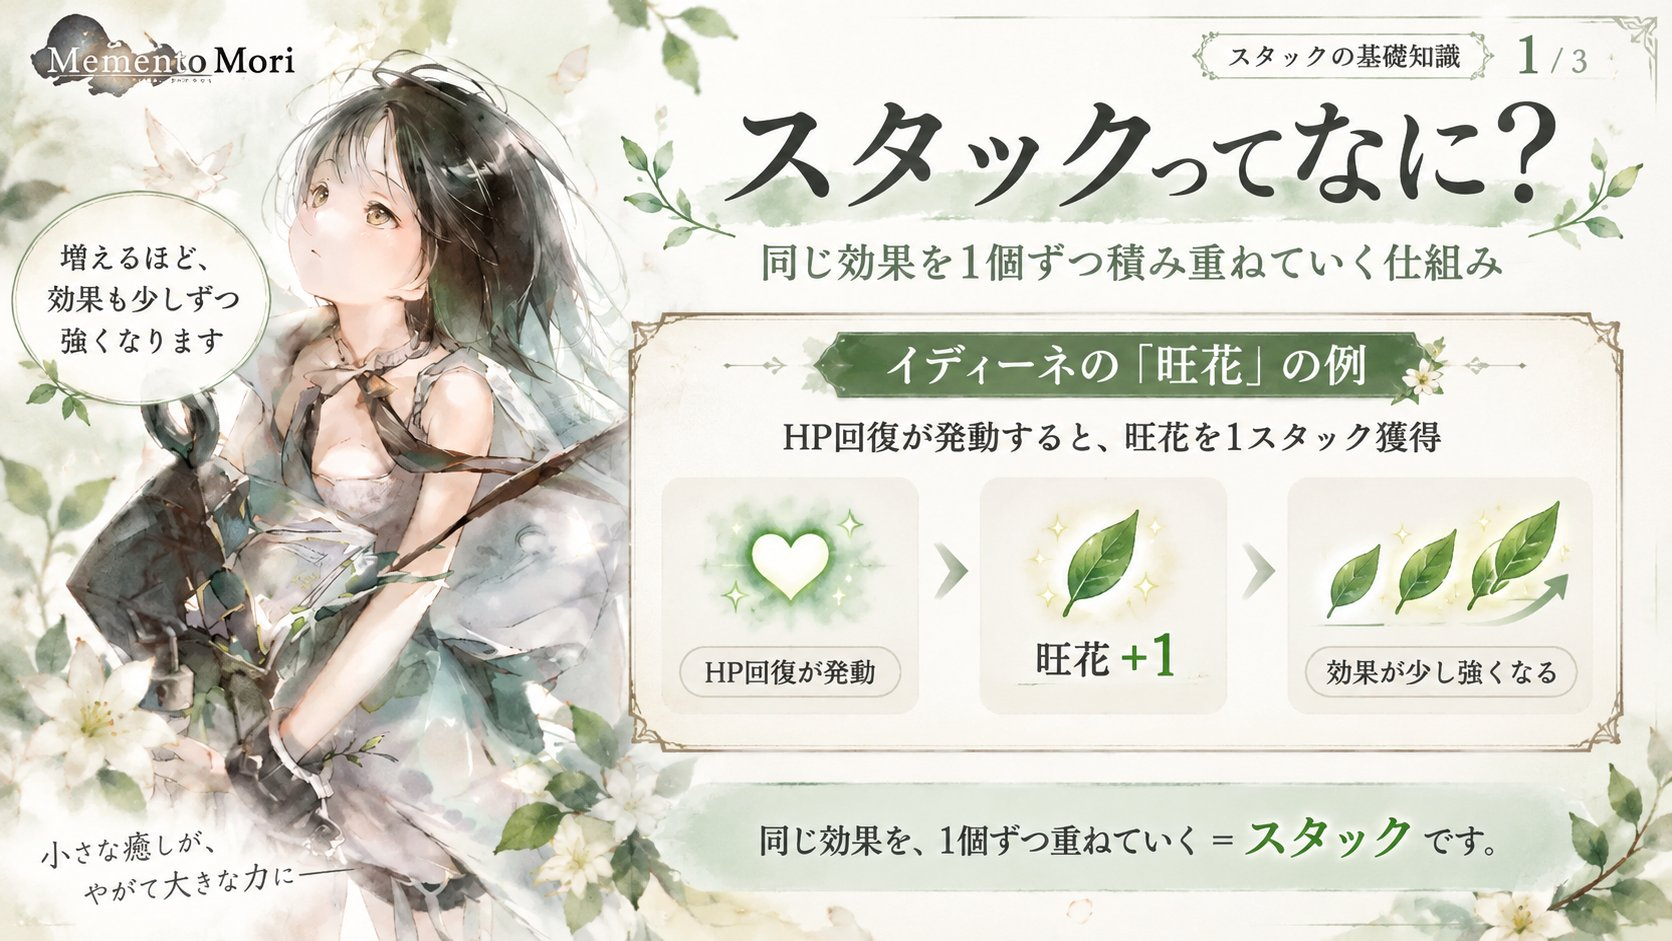
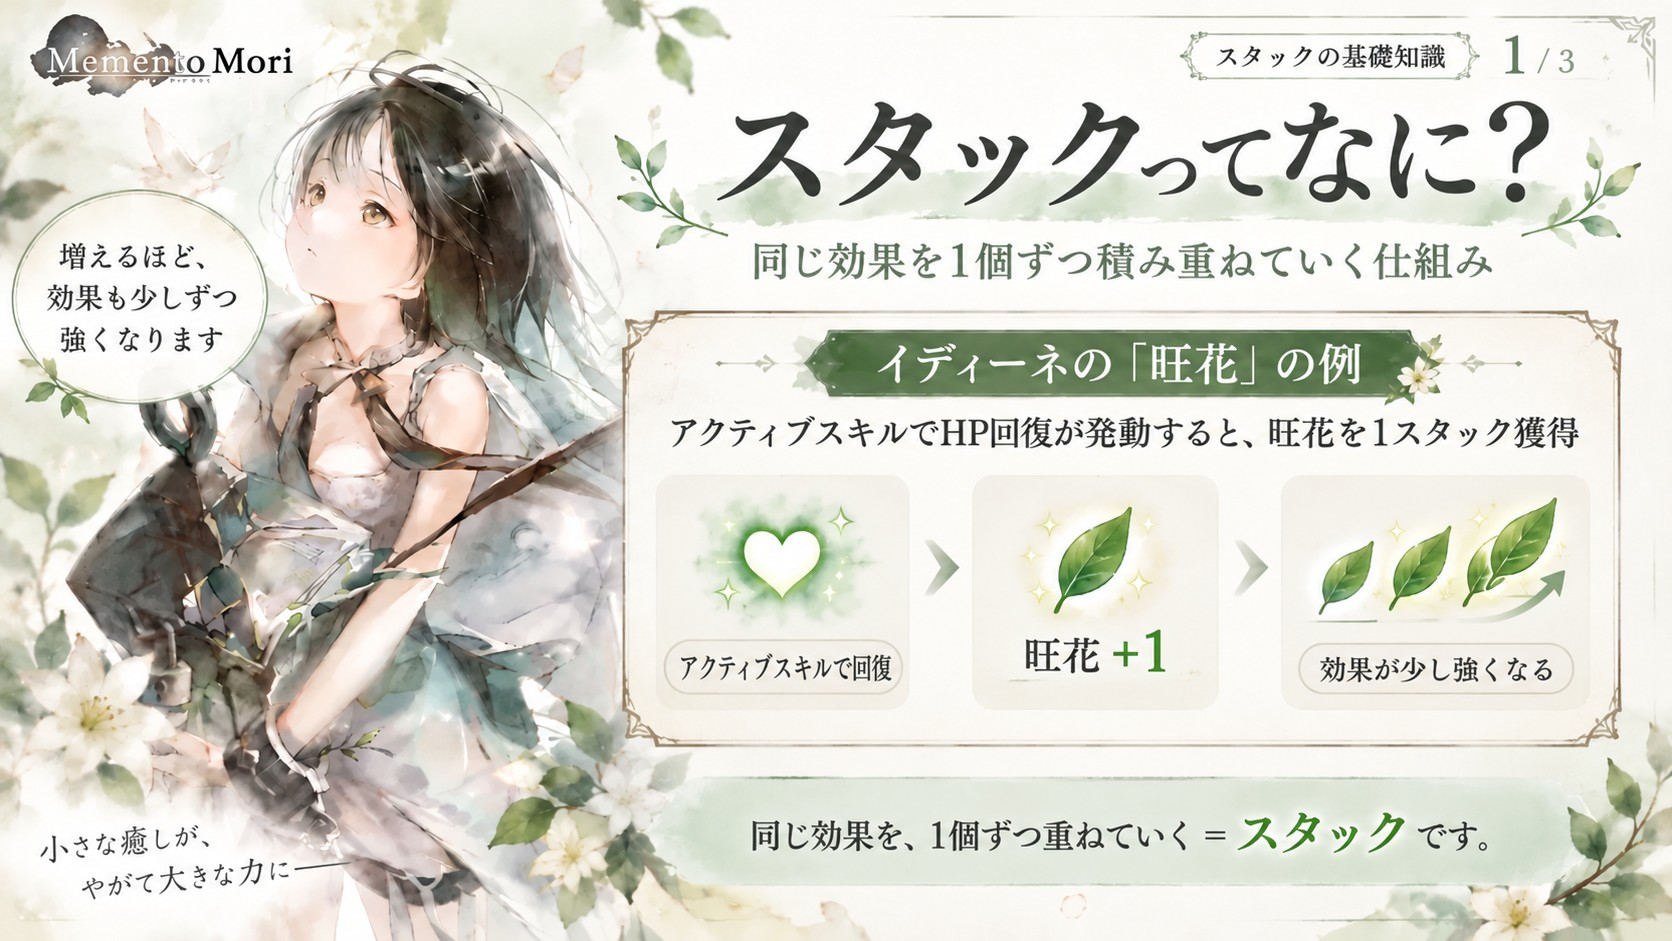
fix(status-guide): スタック解説の図解スライド2枚を差し替え、旺花の発動条件と対象を正しい表記にする

diff --git a/pages/status/stack.html b/pages/status/stack.html
@@ -92,13 +92,13 @@
               <figure class="guide-slide is-active" data-duration="3000" aria-roledescription="slide" aria-label="1 / 3">
                 <picture>
                   <source type="image/webp" srcset="../../assets/status/stack-slide-1-intro-960.webp 960w, ../../assets/status/stack-slide-1-intro.webp 1672w" sizes="(max-width: 960px) 100vw, 960px">
-                  <img src="../../assets/status/stack-slide-1-intro.jpg" width="1672" height="941" alt="スタックってなに？同じ効果を1個ずつ積み重ねていく仕組み。イディーネの旺花の例：HP回復が発動すると旺花が1つ増え、効果が少し強くなる" decoding="async">
+                  <img src="../../assets/status/stack-slide-1-intro.jpg" width="1672" height="941" alt="スタックってなに？同じ効果を1個ずつ積み重ねていく仕組み。イディーネの旺花の例：アクティブスキルでHP回復が発動すると旺花が1つ増え、効果が少し強くなる" decoding="async">
                 </picture>
               </figure>
               <figure class="guide-slide" data-duration="4000" aria-roledescription="slide" aria-label="2 / 3">
                 <picture>
                   <source type="image/webp" srcset="../../assets/status/stack-slide-2-targets-960.webp 960w, ../../assets/status/stack-slide-2-targets.webp 1672w" sizes="(max-width: 960px) 100vw, 960px">
-                  <img src="../../assets/status/stack-slide-2-targets.jpg" width="1672" height="941" alt="旺花は誰に付く？HP回復が発動すると、イディーネ自身と攻撃力が高い味方2体に旺花が1つずつ付く。図のフローレンスとアルトリアは例。旺花は最大15スタック" loading="lazy" decoding="async">
+                  <img src="../../assets/status/stack-slide-2-targets.jpg" width="1672" height="941" alt="旺花は誰に付く？アクティブスキルでHP回復が発動すると、イディーネ自身とイディーネ以外で攻撃力が高い味方2体に旺花が1つずつ付く。図のフローレンスとアルトリアは例。旺花は最大15スタック" loading="lazy" decoding="async">
                 </picture>
               </figure>
               <figure class="guide-slide" data-duration="4500" aria-roledescription="slide" aria-label="3 / 3">

diff --git a/index.html b/index.html
@@ -500,6 +500,11 @@
           <article class="news-item">
             <time class="news-date" datetime="2026-10-08">2026/10/8</time>
             <span class="badge pickup">サイト更新</span>
+            <span class="news-text">状態異常・特殊効果ガイド「スタック」の図解スライド2枚を差し替え。旺花が増える条件を「アクティブスキルでHP回復が発動したとき」、付く相手を「イディーネ自身とイディーネ以外で攻撃力が高い味方2体」に修正</span>
+          </article>
+          <article class="news-item">
+            <time class="news-date" datetime="2026-10-08">2026/10/8</time>
+            <span class="badge pickup">サイト更新</span>
             <span class="news-text">グィネヴィアS1の専用武器Lv1「脱力」を、ゲーム内表記どおり「付帯者のバトル中ステータスの攻撃力40%減少」に修正</span>
           </article>
           <article class="news-item">
@@ -516,11 +521,6 @@
             <time class="news-date" datetime="2026-10-08">2026/10/8</time>
             <span class="badge pickup">サイト更新</span>
             <span class="news-text">23キャラ35スキルの条件・数量・処理の順番・専用武器の説明をゲーム内説明に合わせて修正（D便後半）。シールドや攻撃力増加の基準「ステータス増減前」、2つ同時解除の命中判定、連戦での回数制限などを追記</span>
-          </article>
-          <article class="news-item">
-            <time class="news-date" datetime="2026-10-08">2026/10/8</time>
-            <span class="badge pickup">サイト更新</span>
-            <span class="news-text">26キャラ36スキルの条件・数量・処理の順番・専用武器の説明をゲーム内説明に合わせて修正（シールド量の基準「ステータス増減前」、スタック1つあたりの数値、連戦での回数制限など）</span>
           </article>
       </div>
     </section>
